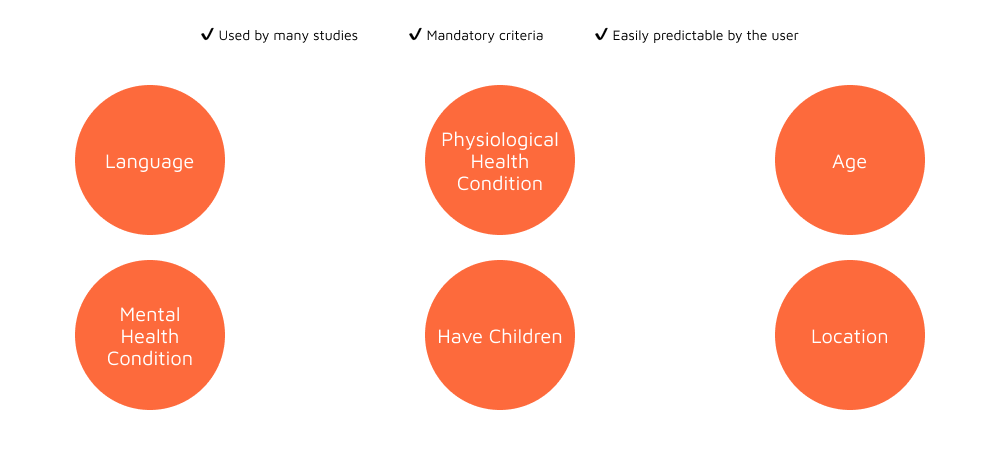
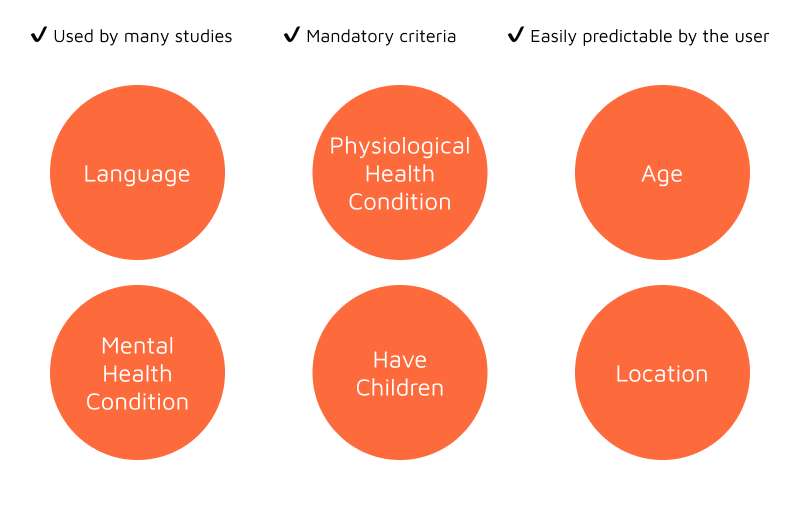
Updated photos and changed width to 800

diff --git a/pages/smartread.html b/pages/smartread.html
@@ -170,23 +170,13 @@
         </h1>
 
         <h2>Metrics for assessing credibility</h2>
-        <p>We determined how to measure credibility from our user interviews.</p>
-        <div class="insightcont">
-            <p class="bold">Source metrics</p>
-            <ul>
-                <li>Author credentials</li>
-                <li>Credibility of Brand/Company</li>
-            </ul>
-        </div>
+        <p>We determined how to measure credibility by interviewing our target audience and learning about how
+            they would measure credibility. </p>
 
-        <div class="insightcont">
-            <p class="bold">Content metrics</p>
-            <ul>
-                <li>Number/quality of citations</li>
-                <li>Number of supporting articles</li>
-                <li>Presence of fake photos</li>
-            </ul>
-        </div>
+            <a target="_blank" href="images/SmartRead/Assessing Credibility.png">
+
+                <p><img class="imgcontainer" src="images/SmartRead/Assessing Credibility.png">
+            </a>
 
         <h2>Presenting the credibility score</h2>
 

diff --git a/css/project-page.css b/css/project-page.css
@@ -129,7 +129,7 @@ header {
     justify-content: center;
 
     width: 100%;
-    max-width: 1000px;
+    max-width: 800px;
 }
 
 .prod {
@@ -162,11 +162,11 @@ span {
 
 .section {
     width: 100%;
-    max-width: 1000px;
+    max-width: 800px;
 }
 
 .section p, ul {
-    max-width: 1000px;
+    max-width: 800px;
 }
 
 /** PAGINATION **/
